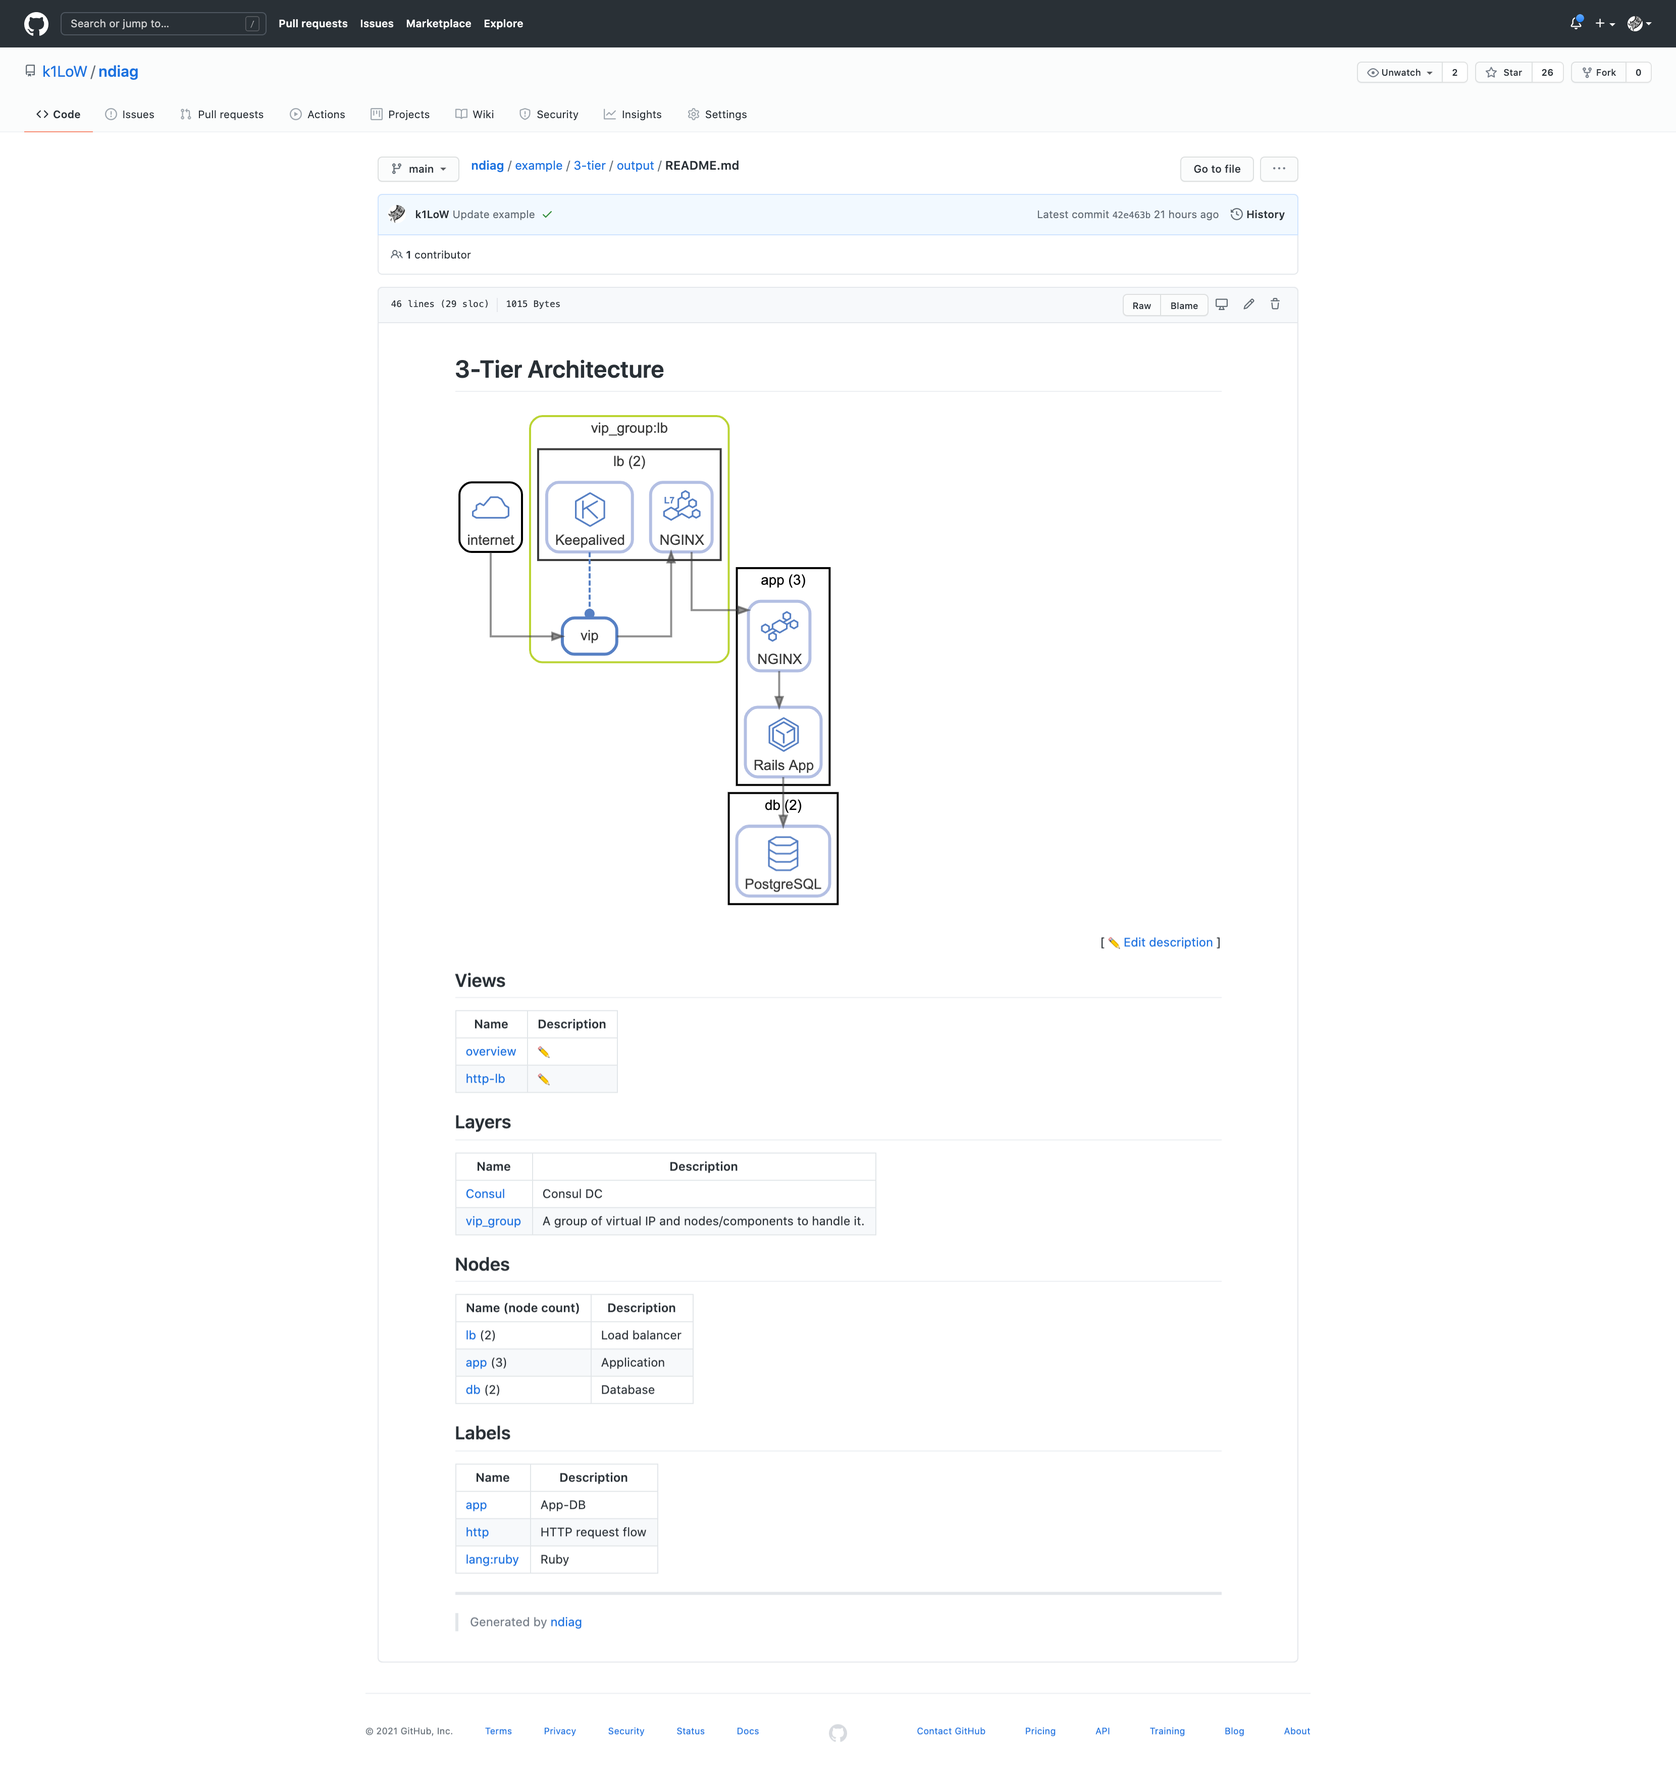
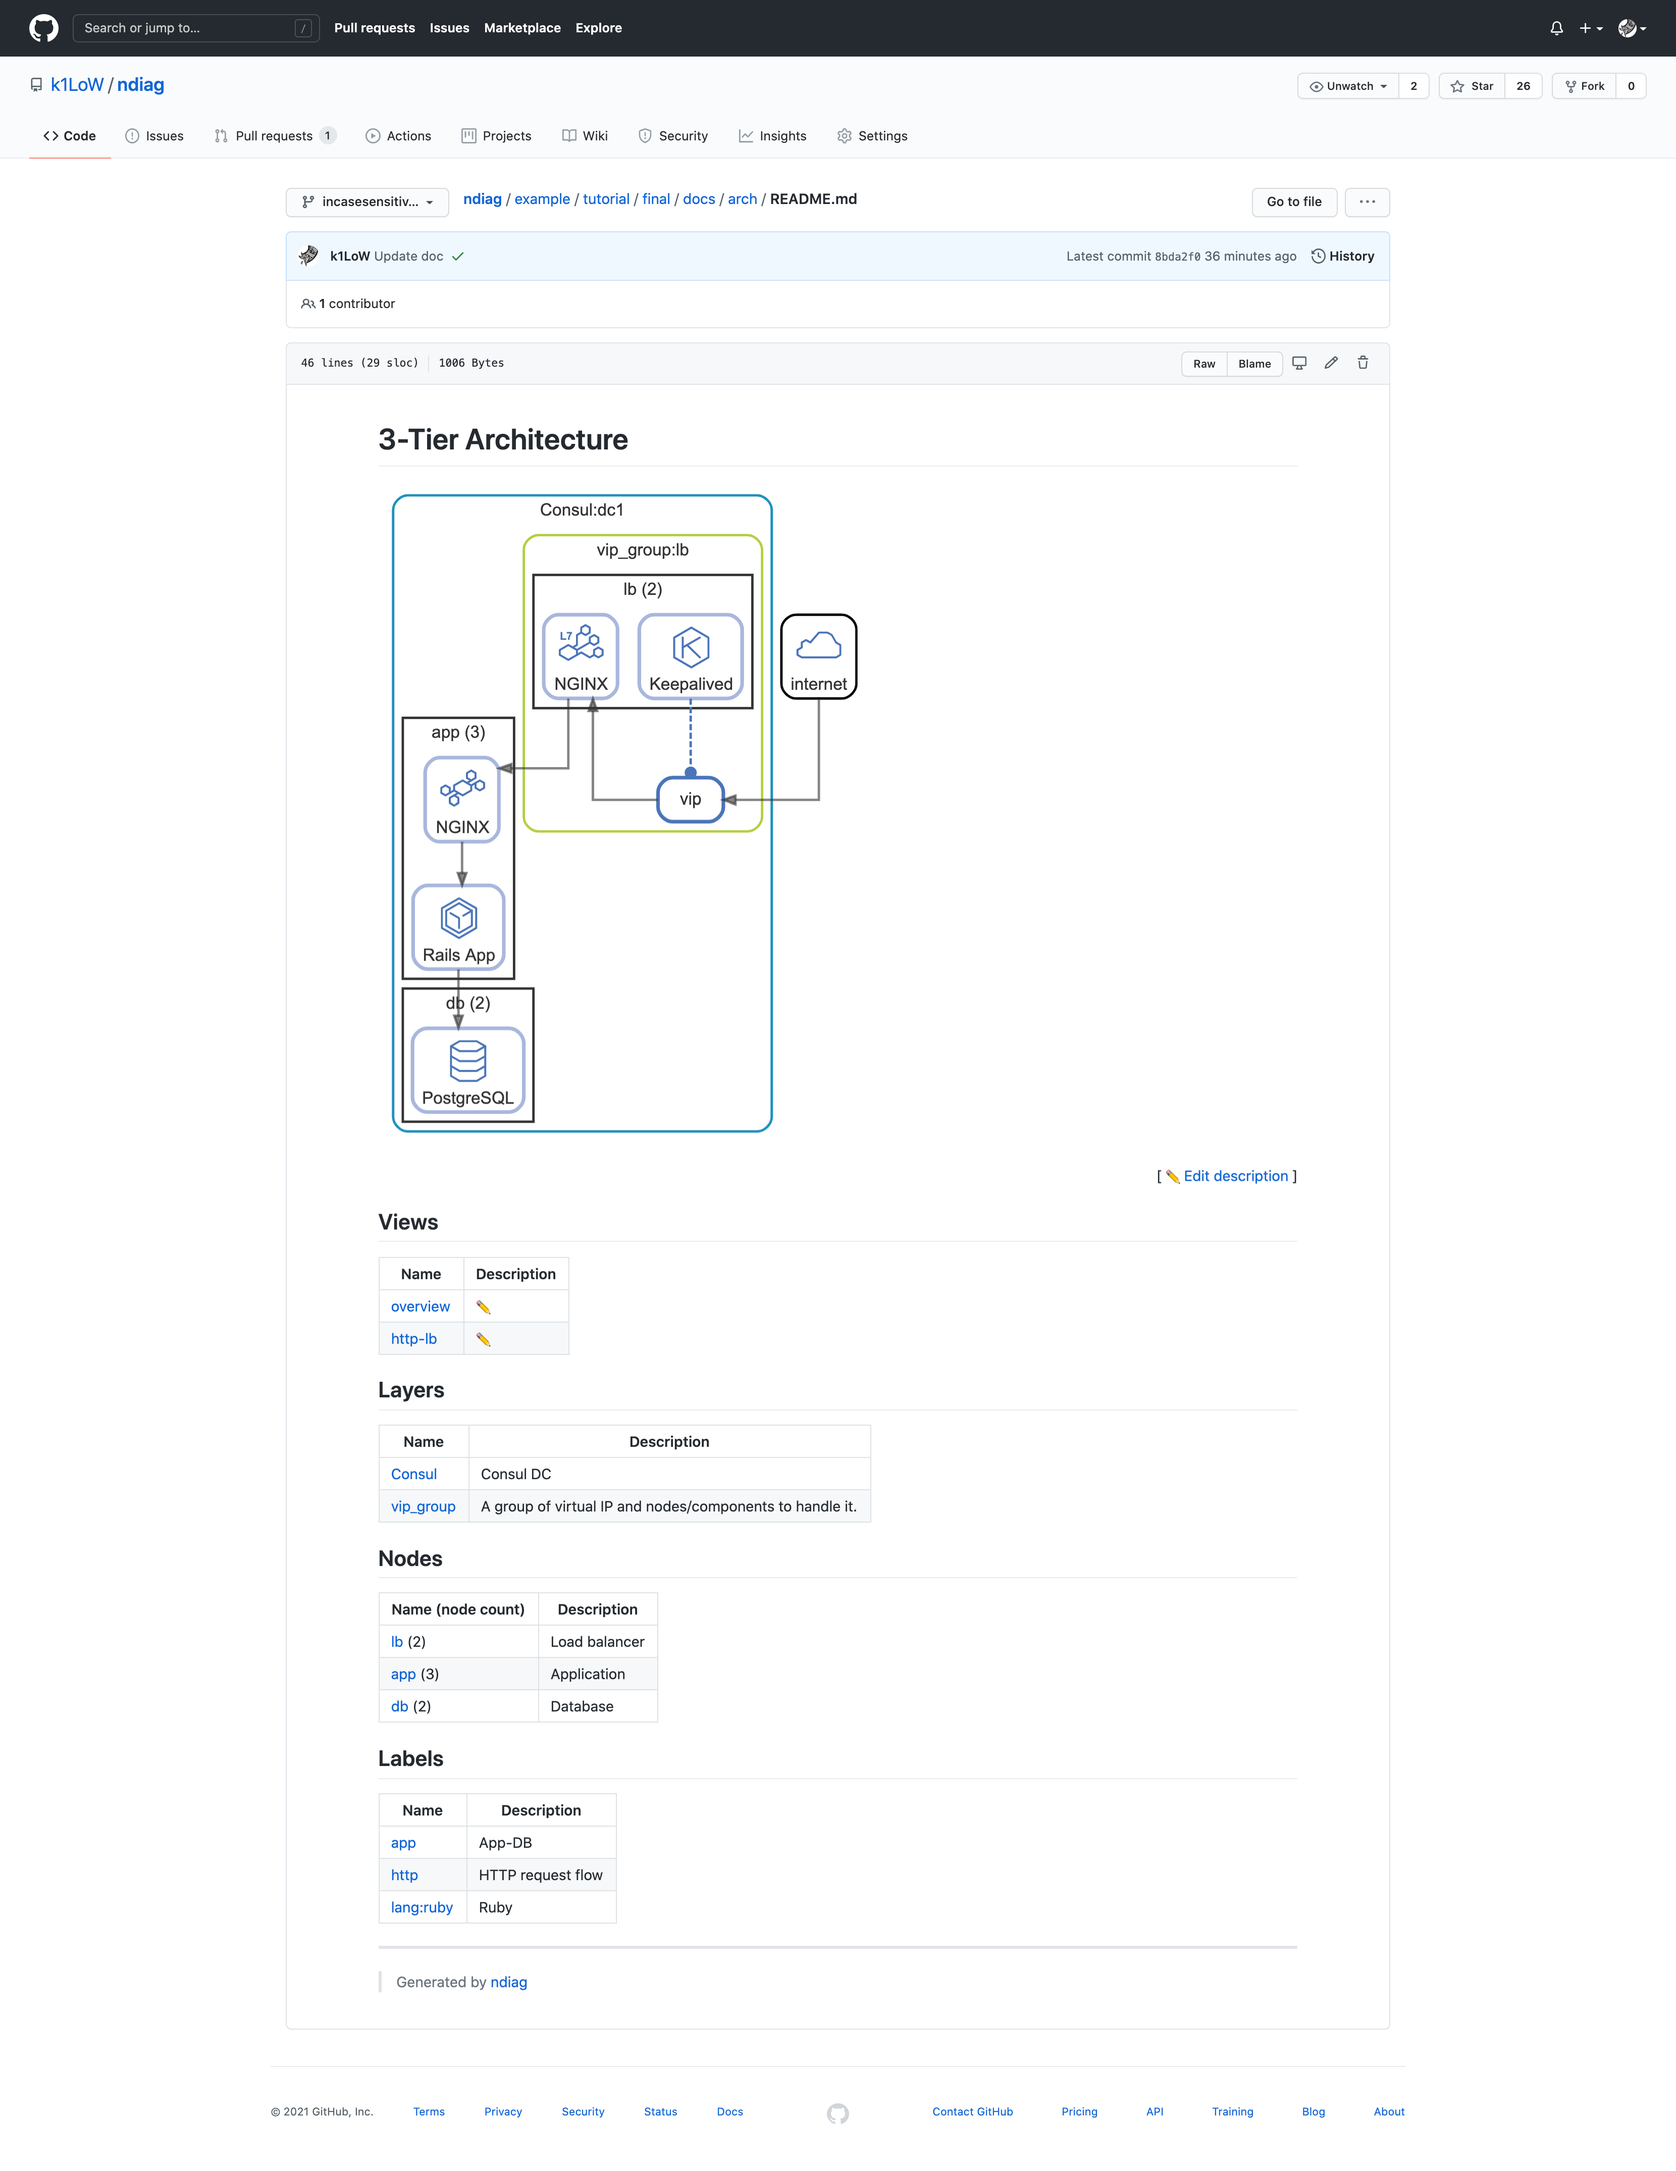
Update doc

diff --git a/README.md b/README.md
@@ -24,26 +24,37 @@ Add `ndiag.yml` (Full version is [here](example/tutorial/final/ndiag.yml)).
 ---
 name: 3-Tier Architecture
 docPath: docs/arch
+views:
+  -
+    name: overview
+    layers: ["consul", "vip_group"]
+  -
+    name: http-lb
+    layers: ["vip_group"]
+    labels: ["http"]
 nodes:
   -
     name: lb
+    match: lb-*
     components:
-      - nginx?icon=lb-l7
+      - NGINX?icon=lb-l7
     clusters:
+      - 'Consul:dc1'
       - 'vip_group:lb'
   -
     name: app
+    match: app-*
     components:
       - NGINX?icon=proxy
       - Rails App?icon=cube4&label=lang:ruby
+    clusters:
+      - 'Consul:dc1'
   -
     name: db
+    match: db-*
     components:
       - PostgreSQL?icon=db
-
-networks:
-  -
-    labels:
+    clusters:
 [...]
 ```
 
